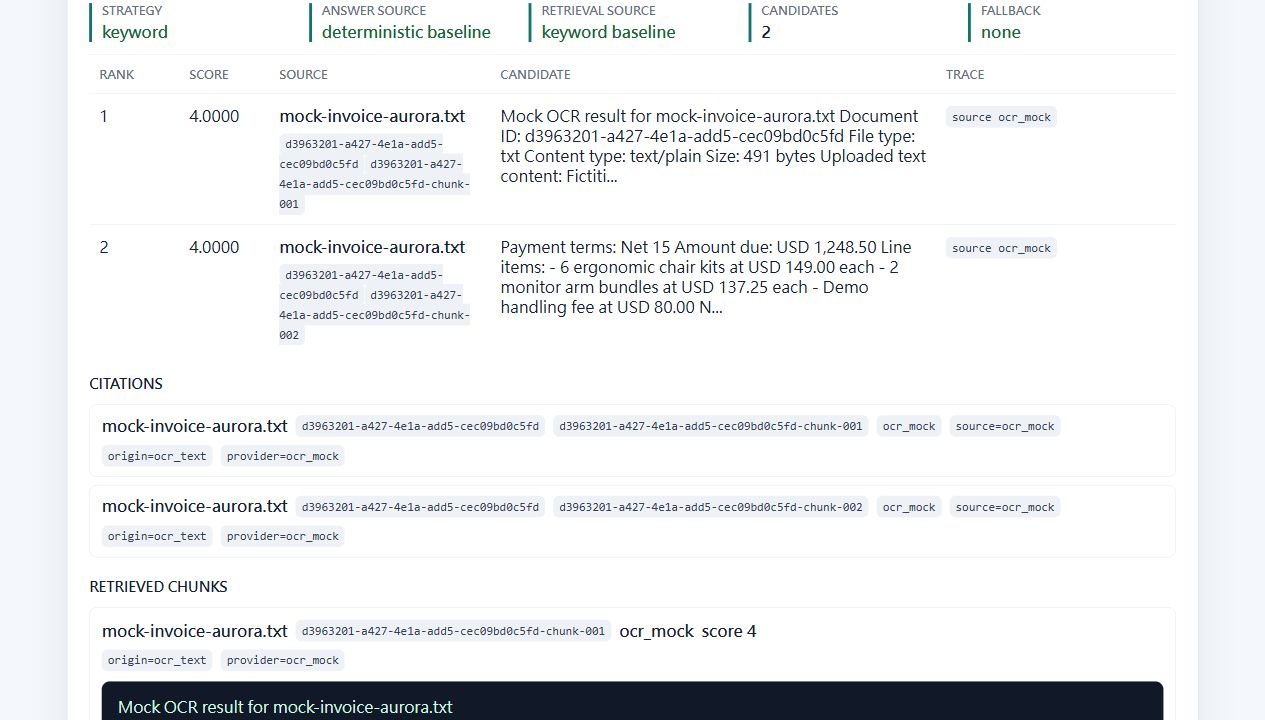
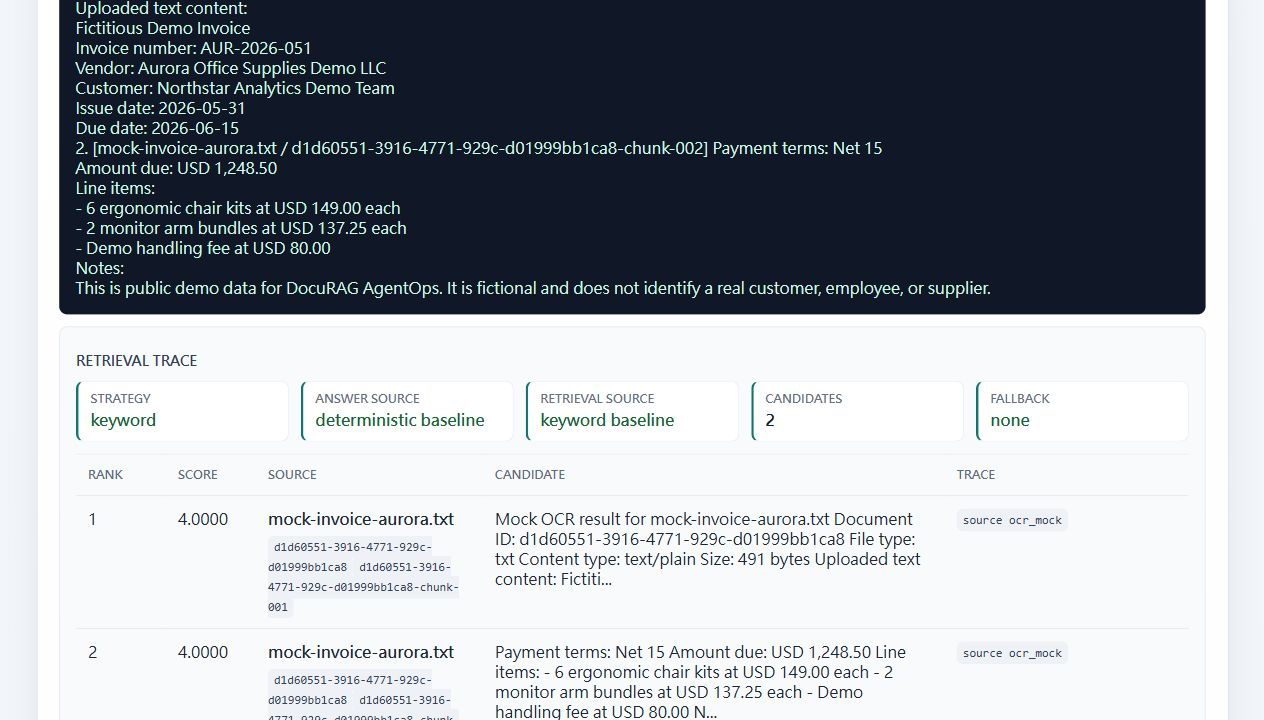
docs: 更新 README demo media 截圖

diff --git a/tasks/phase-20-interview-mvp-packaging/20-06-readme-demo-media-refresh.md b/tasks/phase-20-interview-mvp-packaging/20-06-readme-demo-media-refresh.md
@@ -1,0 +1,60 @@
+# 20-06 README Demo Media Refresh
+
+## Goal
+
+用 20-05 polish 後的前端畫面重新產生 README 使用的 demo media，讓面試第一眼看到的截圖與目前 UI 質感一致。
+
+## Scope
+
+- 只覆蓋既有 README 引用的三張 demo 圖：
+  - `docs/demo-media/frontend-overview.png`
+  - `docs/demo-media/frontend-trace.png`
+  - `docs/demo-media/eval-summary.png`
+- 使用既有 backend / frontend / smoke script / sample data 產生畫面與 eval summary。
+- 同步更新本 ticket、`TODO.md` 與 `docs/ROADMAP.md` 的完成狀態。
+- 不修改 frontend 原始碼、不新增 route、不新增 API、不新增外部依賴。
+
+## Out of Scope
+
+- 不新增 production eval dashboard、strategy comparison page、live eval runner、export UI 或 README GIF。
+- 不新增 backend API endpoint、frontend route、Docker service、Redis、NATS、worker、async queue、PostgreSQL schema、登入、RBAC 或 Agent runtime。
+- 不新增 VLM parser、PDF rendering、production OCR pipeline、K8s、deployment 設定或 release tag。
+- 不修改 retrieval algorithm、RAG response contract、eval runner、sample data 或 smoke script。
+
+## Release Impact
+
+- Target version: `v0.20.1` media refresh patch。
+- Version bump required: no。
+- 原因：本 ticket 只刷新 README demo 圖與文件狀態，不形成新的 runtime release artifact；不更新 backend / frontend package version 或 Docker Compose `DOCURAG_VERSION`。
+
+## Files likely to change
+
+- `docs/demo-media/frontend-overview.png`
+- `docs/demo-media/frontend-trace.png`
+- `docs/demo-media/eval-summary.png`
+- `TODO.md`
+- `docs/ROADMAP.md`
+
+## Acceptance Criteria
+
+- [x] README 引用的 frontend overview 截圖反映 20-05 polish 後的第一屏質感。
+- [x] README 引用的 frontend trace 截圖反映新版 RAG answer、retrieval trace、citations 與 chunks 呈現。
+- [x] README 引用的 eval summary 圖反映目前 retrieval eval baseline summary。
+- [x] 不新增 route、API、外部依賴或 out-of-scope runtime。
+
+## Validation
+
+- `npm.cmd run build`（於 `frontend/`）
+- Browser 檢查 local frontend demo view 並重新截取 README demo media。
+- `powershell.exe -NoProfile -ExecutionPolicy Bypass -File ./scripts/retrieval-eval-smoke.ps1`
+- `rg -n "frontend-overview.png|frontend-trace.png|eval-summary.png" README.md`
+- `git diff --check`
+
+Validation result：
+
+- `npm.cmd run build` 於 `frontend/` 通過。
+- Browser 檢查 `http://localhost:5173/` local frontend demo view，並覆蓋 `frontend-overview.png` 與 `frontend-trace.png`。
+- `powershell.exe -NoProfile -ExecutionPolicy Bypass -File ./scripts/retrieval-eval-smoke.ps1` 通過，keyword summary：`case_count=20`、Hit Rate@K `0.7`、MRR@K `0.475`、Recall@K `0.625`、failure count `0`、fallback count `0`、trace metadata count `62`。
+- 依 `.tmp/retrieval-eval-result-keyword.json` 重新產生 `eval-summary.png`。
+- `rg -n "frontend-overview.png|frontend-trace.png|eval-summary.png" README.md` 通過。
+- `git diff --check` 通過（僅 Windows LF/CRLF 提示）。

diff --git a/docs/ROADMAP.md b/docs/ROADMAP.md
@@ -1051,6 +1051,12 @@ Expected Outcome：
 - Scope 只限既有 Vue single-page UI 與 CSS，不新增 route、API、外部依賴、backend runtime 或 release version bump。
 - Validation：`npm.cmd run build` 通過；Browser 檢查 `http://localhost:5173/` desktop local view 無 horizontal overflow；`git diff --check` 通過（僅 Windows LF/CRLF 提示）。
 
+20-06 README Demo Media Refresh Status：
+
+- 新增 README demo media refresh ticket，目標是讓 README 引用的 `frontend-overview.png`、`frontend-trace.png` 與 `eval-summary.png` 跟上 20-05 後的前端展示質感。
+- Scope 只限覆蓋既有 demo media 與更新 TODO / ROADMAP 狀態，不新增 frontend route、backend API、外部依賴、runtime 或 release version bump。
+- Validation：`npm.cmd run build` 通過；Browser 檢查 `http://localhost:5173/` local frontend demo view 並重新截取 overview / trace 圖；baseline `scripts/retrieval-eval-smoke.ps1` 通過，keyword summary `case_count=20`、Hit Rate@K `0.7`、MRR@K `0.475`、Recall@K `0.625`、failure count `0`、fallback count `0`、trace metadata count `62`；重新產生 eval summary 圖；`rg` 與 `git diff --check` 通過（僅 Windows LF/CRLF 提示）。
+
 Acceptance Criteria：
 
 - Phase 20 tickets 都包含 Goal、Scope、Out of Scope、Files likely to change、Acceptance Criteria、Validation 與 Release Impact。

diff --git a/TODO.md b/TODO.md
@@ -529,11 +529,13 @@ Phase 20 guardrails：
 
 - [x] `tasks/phase-20-interview-mvp-packaging/20-05-frontend-demo-ui-polish.md`: 改善既有 Vue demo UI 的第一屏資訊層次、workflow 狀態、卡片 / 表格 / trace 視覺質感；不新增 route、API、外部依賴或 backend runtime。
 - [x] 20-05 validation：`npm.cmd run build` 於 `frontend/` 通過；Browser 檢查 `http://localhost:5173/` local frontend demo view，desktop viewport 無 horizontal overflow；`git diff --check` 通過（僅 Windows LF/CRLF 提示）。
+- [x] `tasks/phase-20-interview-mvp-packaging/20-06-readme-demo-media-refresh.md`: 用 20-05 polish 後的 local frontend demo 與 baseline eval summary 重新覆蓋 README 引用的三張 demo 圖；不新增 route、API、外部依賴或 backend runtime。
+- [x] 20-06 validation：`npm.cmd run build` 於 `frontend/` 通過；Browser 重新截取 `docs/demo-media/frontend-overview.png` 與 `docs/demo-media/frontend-trace.png`；baseline `scripts/retrieval-eval-smoke.ps1` 通過，keyword summary `case_count=20`、Hit Rate@K `0.7`、MRR@K `0.475`、Recall@K `0.625`、failure count `0`、fallback count `0`、trace metadata count `62`；重新產生 `docs/demo-media/eval-summary.png`；`rg` 與 `git diff --check` 通過（僅 Windows LF/CRLF 提示）。
 
 Phase 20.1 goal：
 
 - 讓面試 demo 的 frontend 第一眼更像成熟 AI application dashboard，清楚呈現 backend health、文件數、目前選取文件、RAG answer source 與 upload -> OCR -> index -> trace workflow。
-- 只做展示質感加分，不改 API contract、不新增功能範圍、不 bump version。
+- 只做展示質感與 README demo media 加分，不改 API contract、不新增功能範圍、不 bump version。
 
 Phase 20.1 guardrails：
 